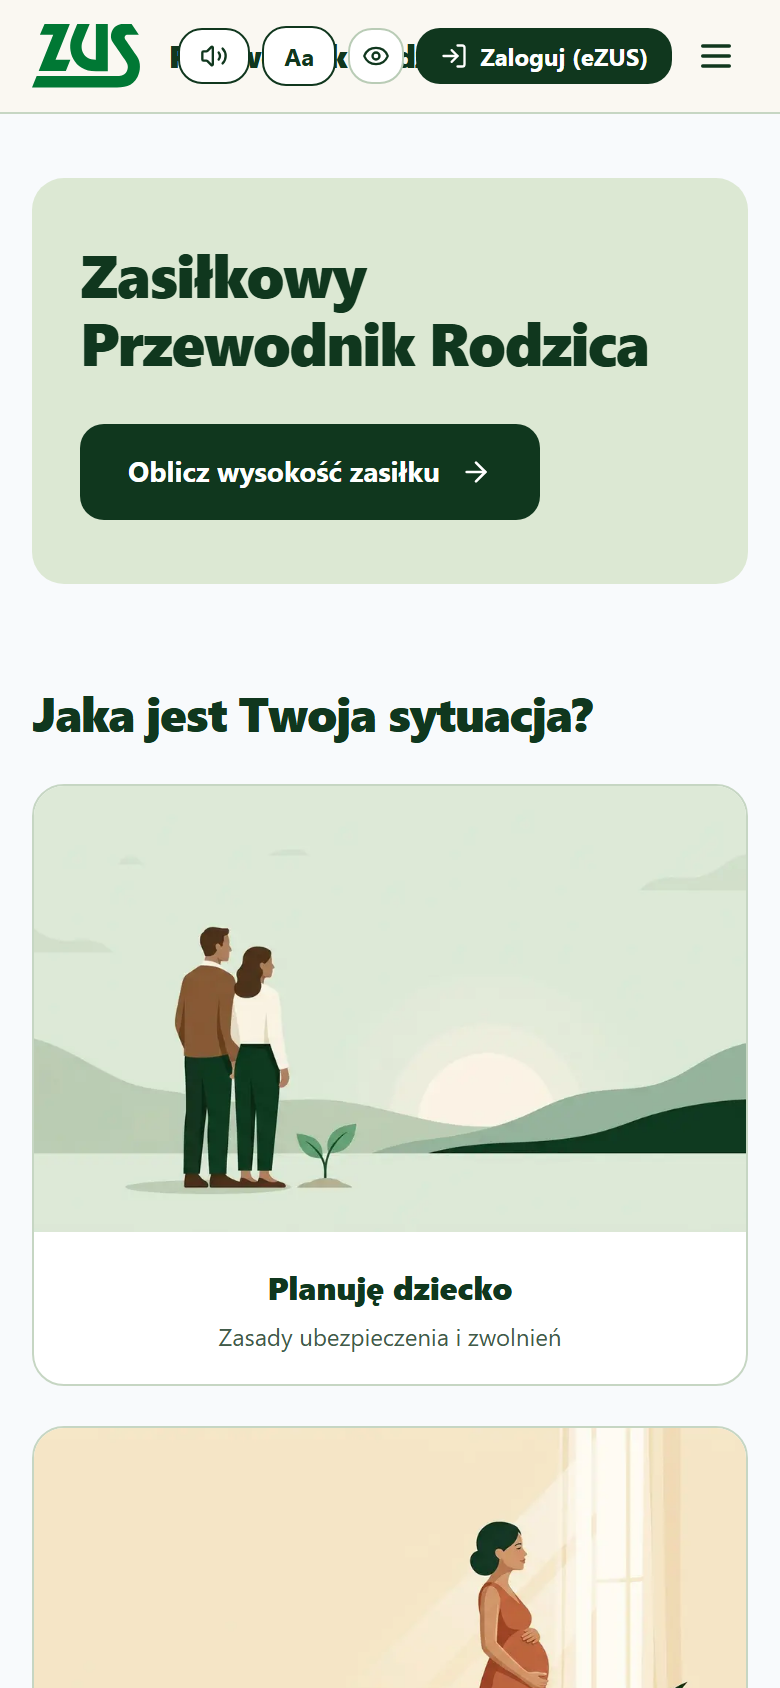
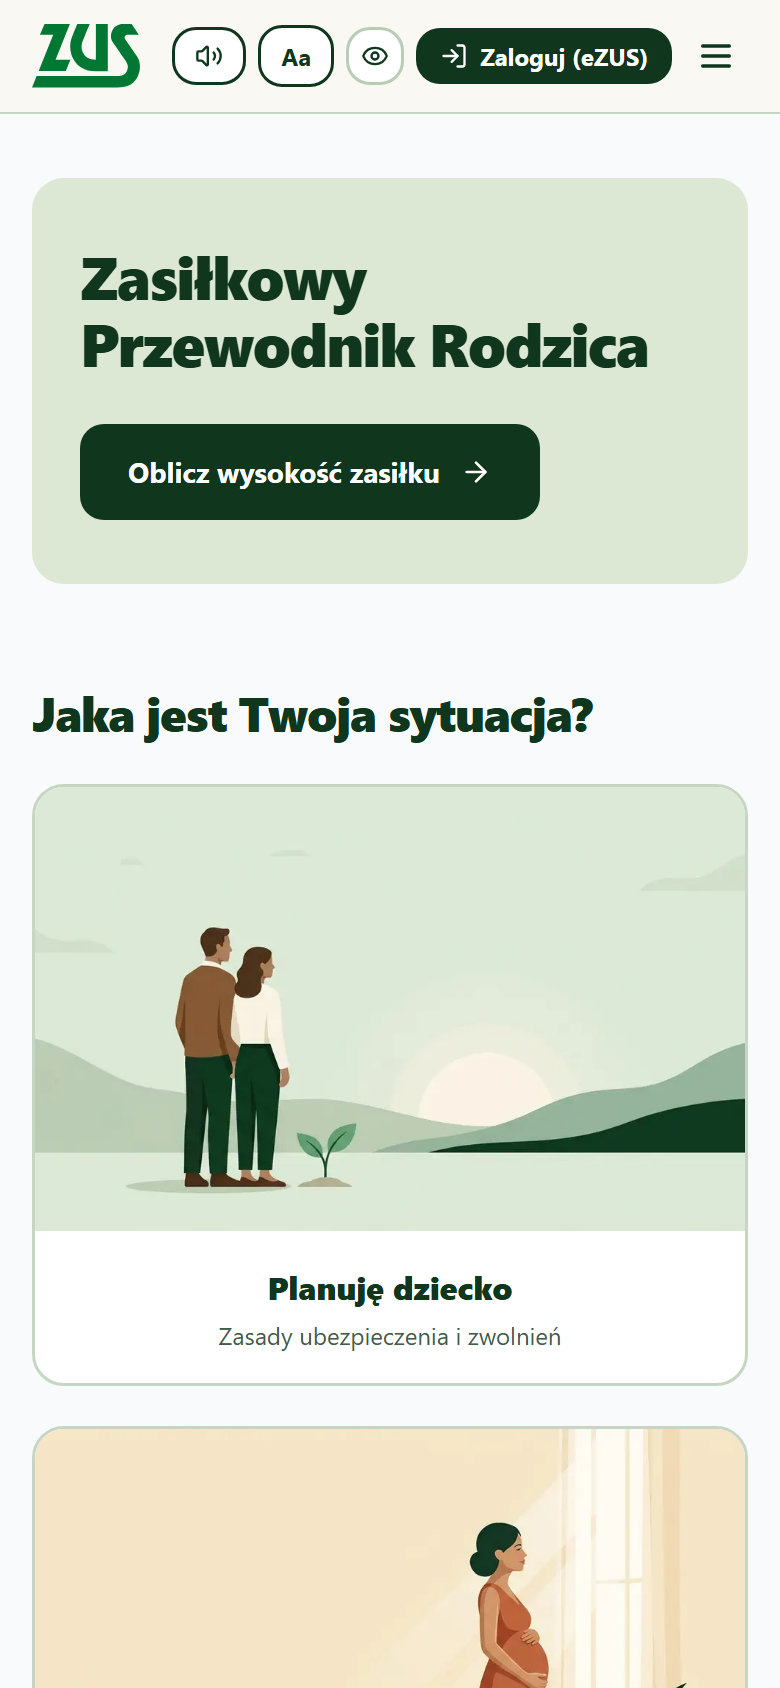
fix(mobile): hide Przewodnik Rodzica title on <640px screens and refresh video mobile captures

diff --git a/apps/web/src/components/Header.tsx b/apps/web/src/components/Header.tsx
@@ -164,7 +164,7 @@ export function Header() {
               </span>
             )}
             {!isInMobileFrame && (
-              <span className="text-base sm:text-lg font-extrabold text-[#10371E] tracking-tight whitespace-nowrap">
+              <span className="hidden sm:inline text-base sm:text-lg font-extrabold text-[#10371E] tracking-tight whitespace-nowrap">
                 Przewodnik Rodzica
               </span>
             )}
